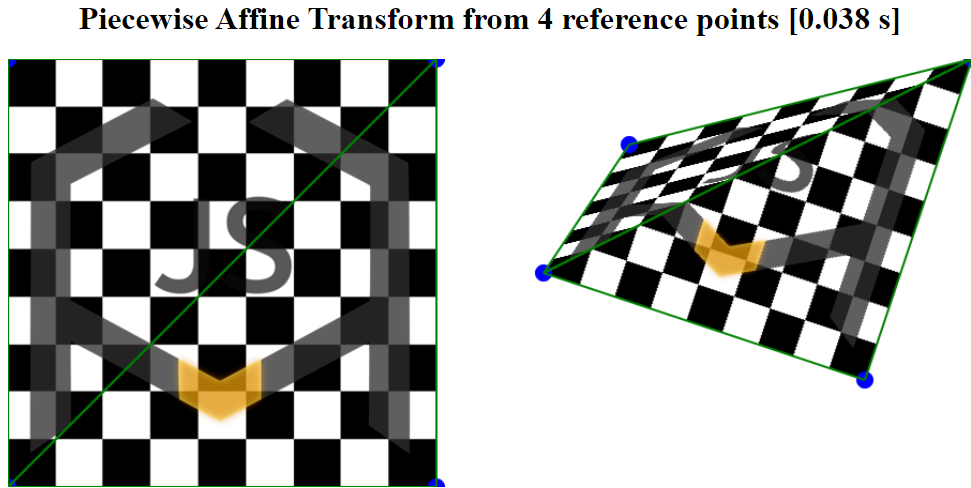
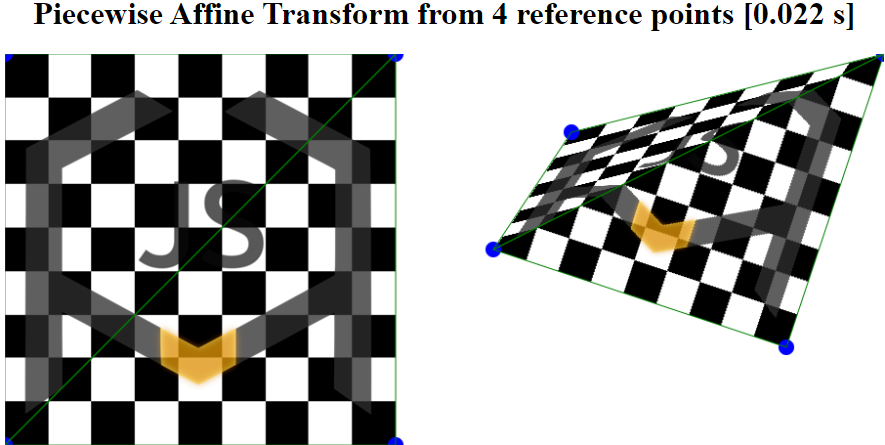
AffineTransformExampleOnTextBox

Changed region(s): [[0.0, 0.1169, 0.4576, 1.0], [0.5492, 0.1169, 1.0, 0.7888], [0.0305, 0.0, 0.9763, 0.0876]]

diff --git a/test/test.js b/test/test.js
@@ -357,28 +357,27 @@ function testCSS1(){
     let div = document.createElement('div');
     div.style.width = '80%';
     let h1 = document.createElement('h1');
-    h1.textContent = 'Using transformation matrix in a Text Box';
+    h1.textContent = 'Affine Transform on Text Box';
     h1.style.textAlign = 'center';
     div.appendChild(h1);
     let inputText = document.createElement('textarea');
     inputText.rows = 5;
-    inputText.cols = 20;
+    inputText.cols = 10;
     inputText.textContent = '\n\nHello World!'
     inputText.style.textAlign = 'center';
     inputText.style.position = 'relative';
     inputText.style.display = 'block';
     inputText.style.margin = '0 auto';
+    inputText.style.width = '40%';
+    inputText.style.fontSize = '28px';
     div.appendChild(inputText);
     document.body.appendChild(div);
     const s0 = performance.now();
-    const identityHomography = new Homography("affine");
+    const identityHomography = new Homography("auto");
     // Sets the width - height from the very beginning, with non normalized coordinates
-    identityHomography.setSourcePoints(squarePoints);
-    // Don't set the image until the warping
-    identityHomography.setDestinyPoints(rectanglePoints);
-    identityHomography.transformHTMLElement(inputText);
+    identityHomography.transformHTMLElement(inputText, squarePoints, rectanglePoints);
     const s1 = performance.now();
-    h1.textContent += ` [Estimated in ${((s1-s0)/1000).toFixed(4)} s]`;
+    h1.textContent += ` [${((s1-s0)/1000).toFixed(4)} s]`;
 }
 
 function testCSS2(){
